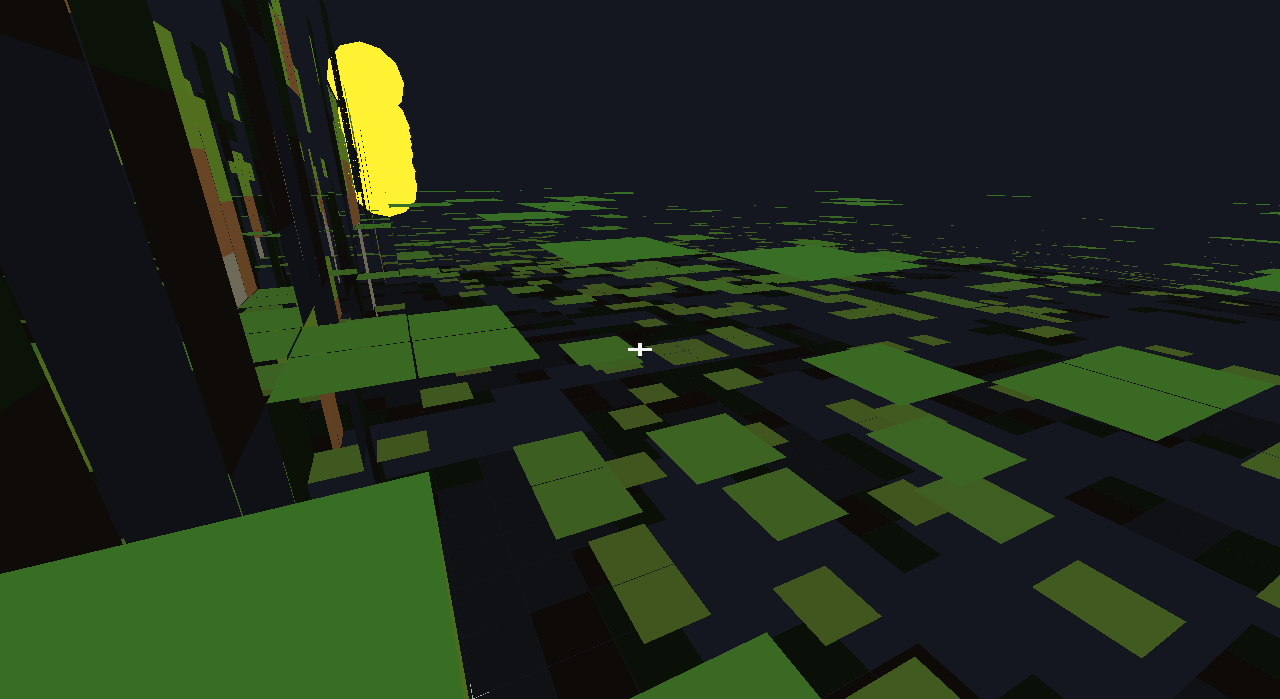
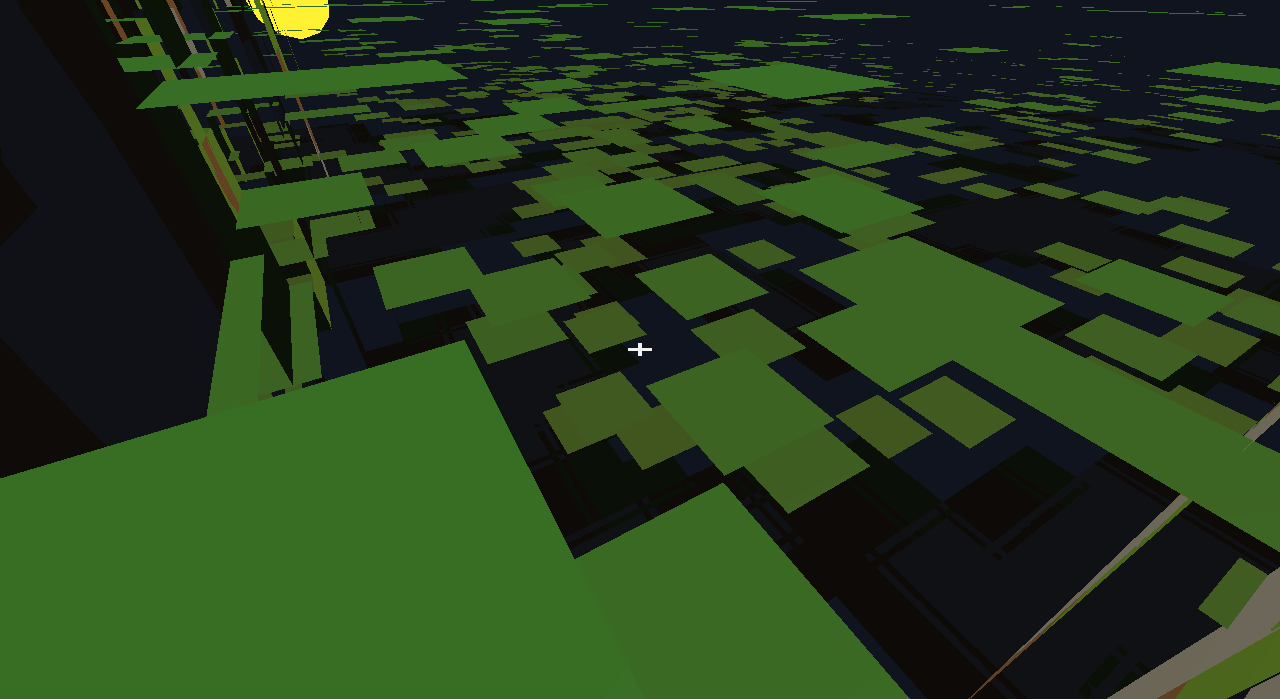
feat(planet): UV pre-distortion to reduce block stretching near sector boundaries
Implements equi-angular cube-sphere mapping from Bowerbyte Blocky Planet:
- pre_distort_uv(): tan(u * π/4) — warps uniform UV grid so that after
  sphere normalization, blocks have more uniform size across the face
- inverse_pre_distort_uv(): (4/π) * atan(u) — for round-trip consistency
  in direction_to_face_uv() for address_from_world() lookups

Applied automatically to all callers via face_uv_to_direction():
- build_chunk_mesh (mesh generation)
- block_world_center (block positioning)
- terrain_height_at_face_uv (terrain sampling)
- address_from_world (block address lookup)

Face counts reflect improved distribution:
Before: +x=170 +y=260 +z=241
After:  +x=115 +y=128 +z=136 (more balanced across faces)

Agent: Xiaomi Mimo v2.5 Pro via opencode

diff --git a/src/engine_world/planet.cpp b/src/engine_world/planet.cpp
@@ -13,6 +13,7 @@
 #include <cstddef>
 #include <cstdint>
 #include <limits>
+#include <numbers>
 #include <utility>
 
 #include <glm/common.hpp>
@@ -33,9 +34,34 @@ glm::dvec3 math_normalized_or(const glm::dvec3 &value,
   }
   return value / std::sqrt(len2);
 }
+
+// Pre-distort UV coordinates using equi-angular mapping to reduce block
+// stretching near cube-sphere sector boundaries.
+// Maps u,v in [-1,1] to a pre-distorted position on the cube face.
+// Without this, normalizing cube-face vertices onto the sphere compresses
+// blocks near edges/corners.  The tan() warps the uniform grid so that
+// after normalization, blocks have more uniform size across the face.
+// Reference: Bowerbyte "Blocky Planet" equiangular cube-sphere projection.
+void pre_distort_uv(double &u, double &v) {
+  u = std::tan(u * (std::numbers::pi / 4.0));
+  v = std::tan(v * (std::numbers::pi / 4.0));
+}
+
+// Inverse of pre_distort_uv: converts pre-distorted cube-face coordinates
+// back to the original uniform UV grid.  Required in direction_to_face_uv()
+// so that the forward/inverse round-trip is consistent.
+void inverse_pre_distort_uv(double &u, double &v) {
+  u = (4.0 / std::numbers::pi) * std::atan(u);
+  v = (4.0 / std::numbers::pi) * std::atan(v);
+}
 } // namespace
 
 glm::dvec3 face_uv_to_direction(PlanetFace face, double u, double v) {
+  // Pre-distort UV to counteract block stretching near sector boundaries.
+  // The equi-angular mapping redistributes the uniform grid so that after
+  // sphere normalization, blocks are more uniformly sized across the face.
+  pre_distort_uv(u, v);
+
   glm::dvec3 direction(0.0);
   switch (face) {
   case PlanetFace::PosX:
@@ -110,6 +136,12 @@ PlanetFaceUV direction_to_face_uv(const glm::dvec3 &direction) {
 
   uv.u = std::clamp(uv.u, -1.0, 1.0);
   uv.v = std::clamp(uv.v, -1.0, 1.0);
+
+  // Apply inverse pre-distortion so that direction→UV→direction round-trips
+  // correctly.  face_uv_to_direction() applies pre_distort_uv(), so we must
+  // undo it here to return UV on the original uniform grid.
+  inverse_pre_distort_uv(uv.u, uv.v);
+
   return uv;
 }
 
